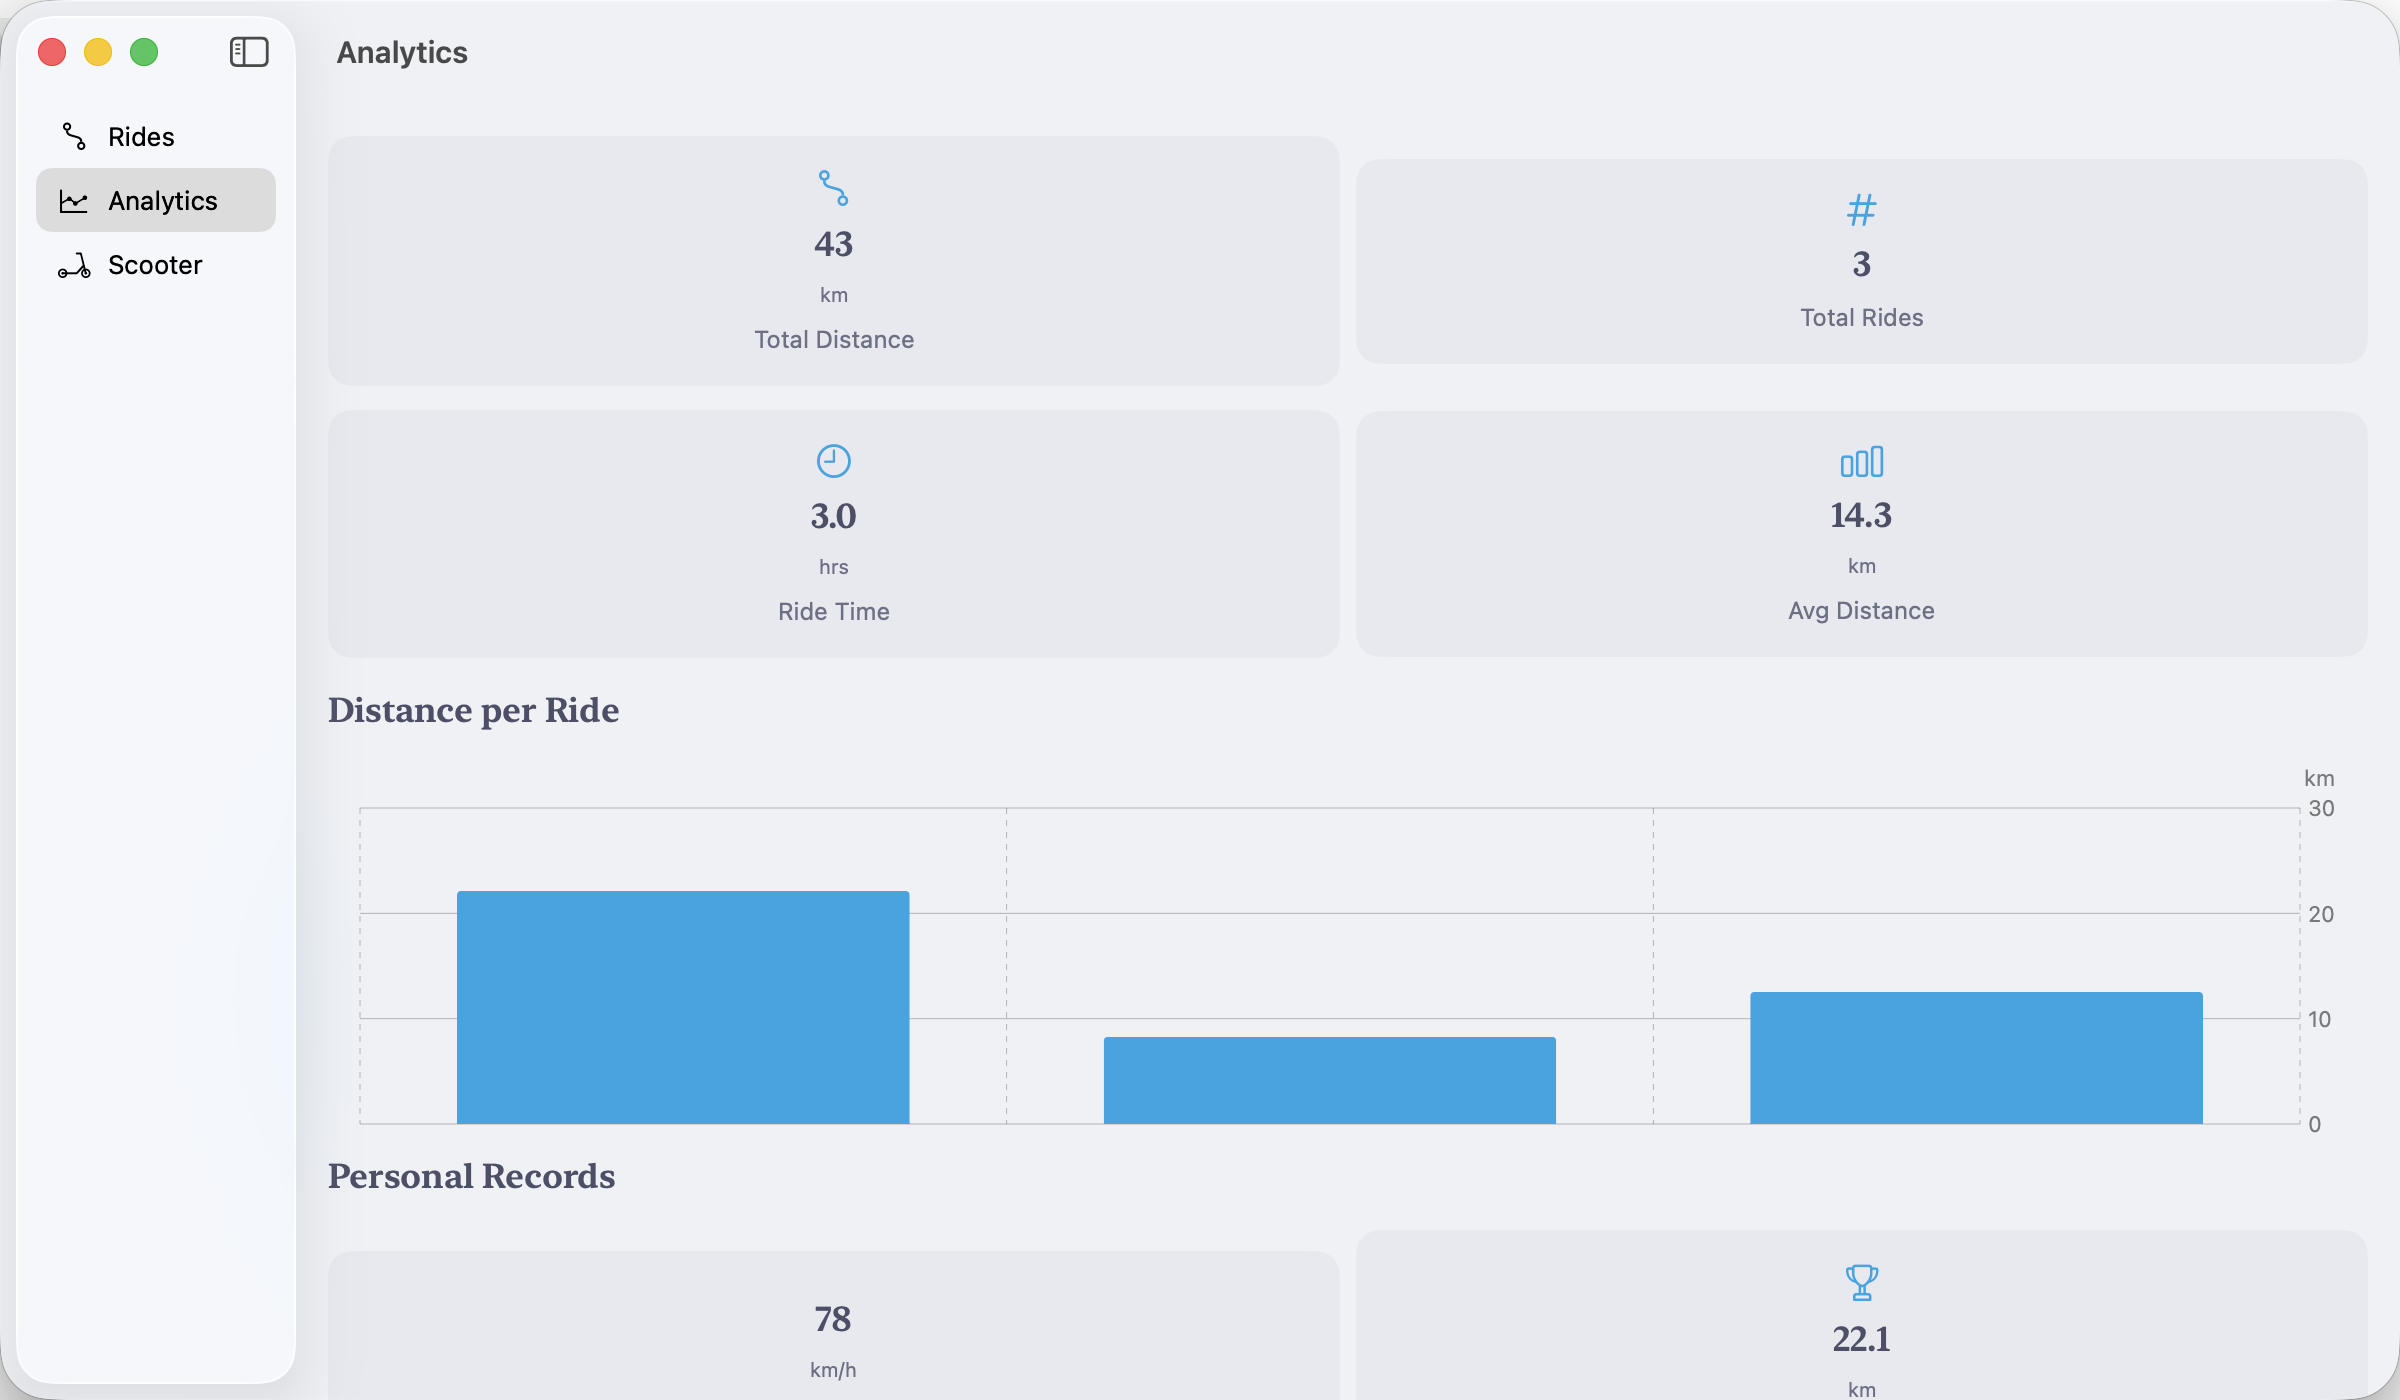
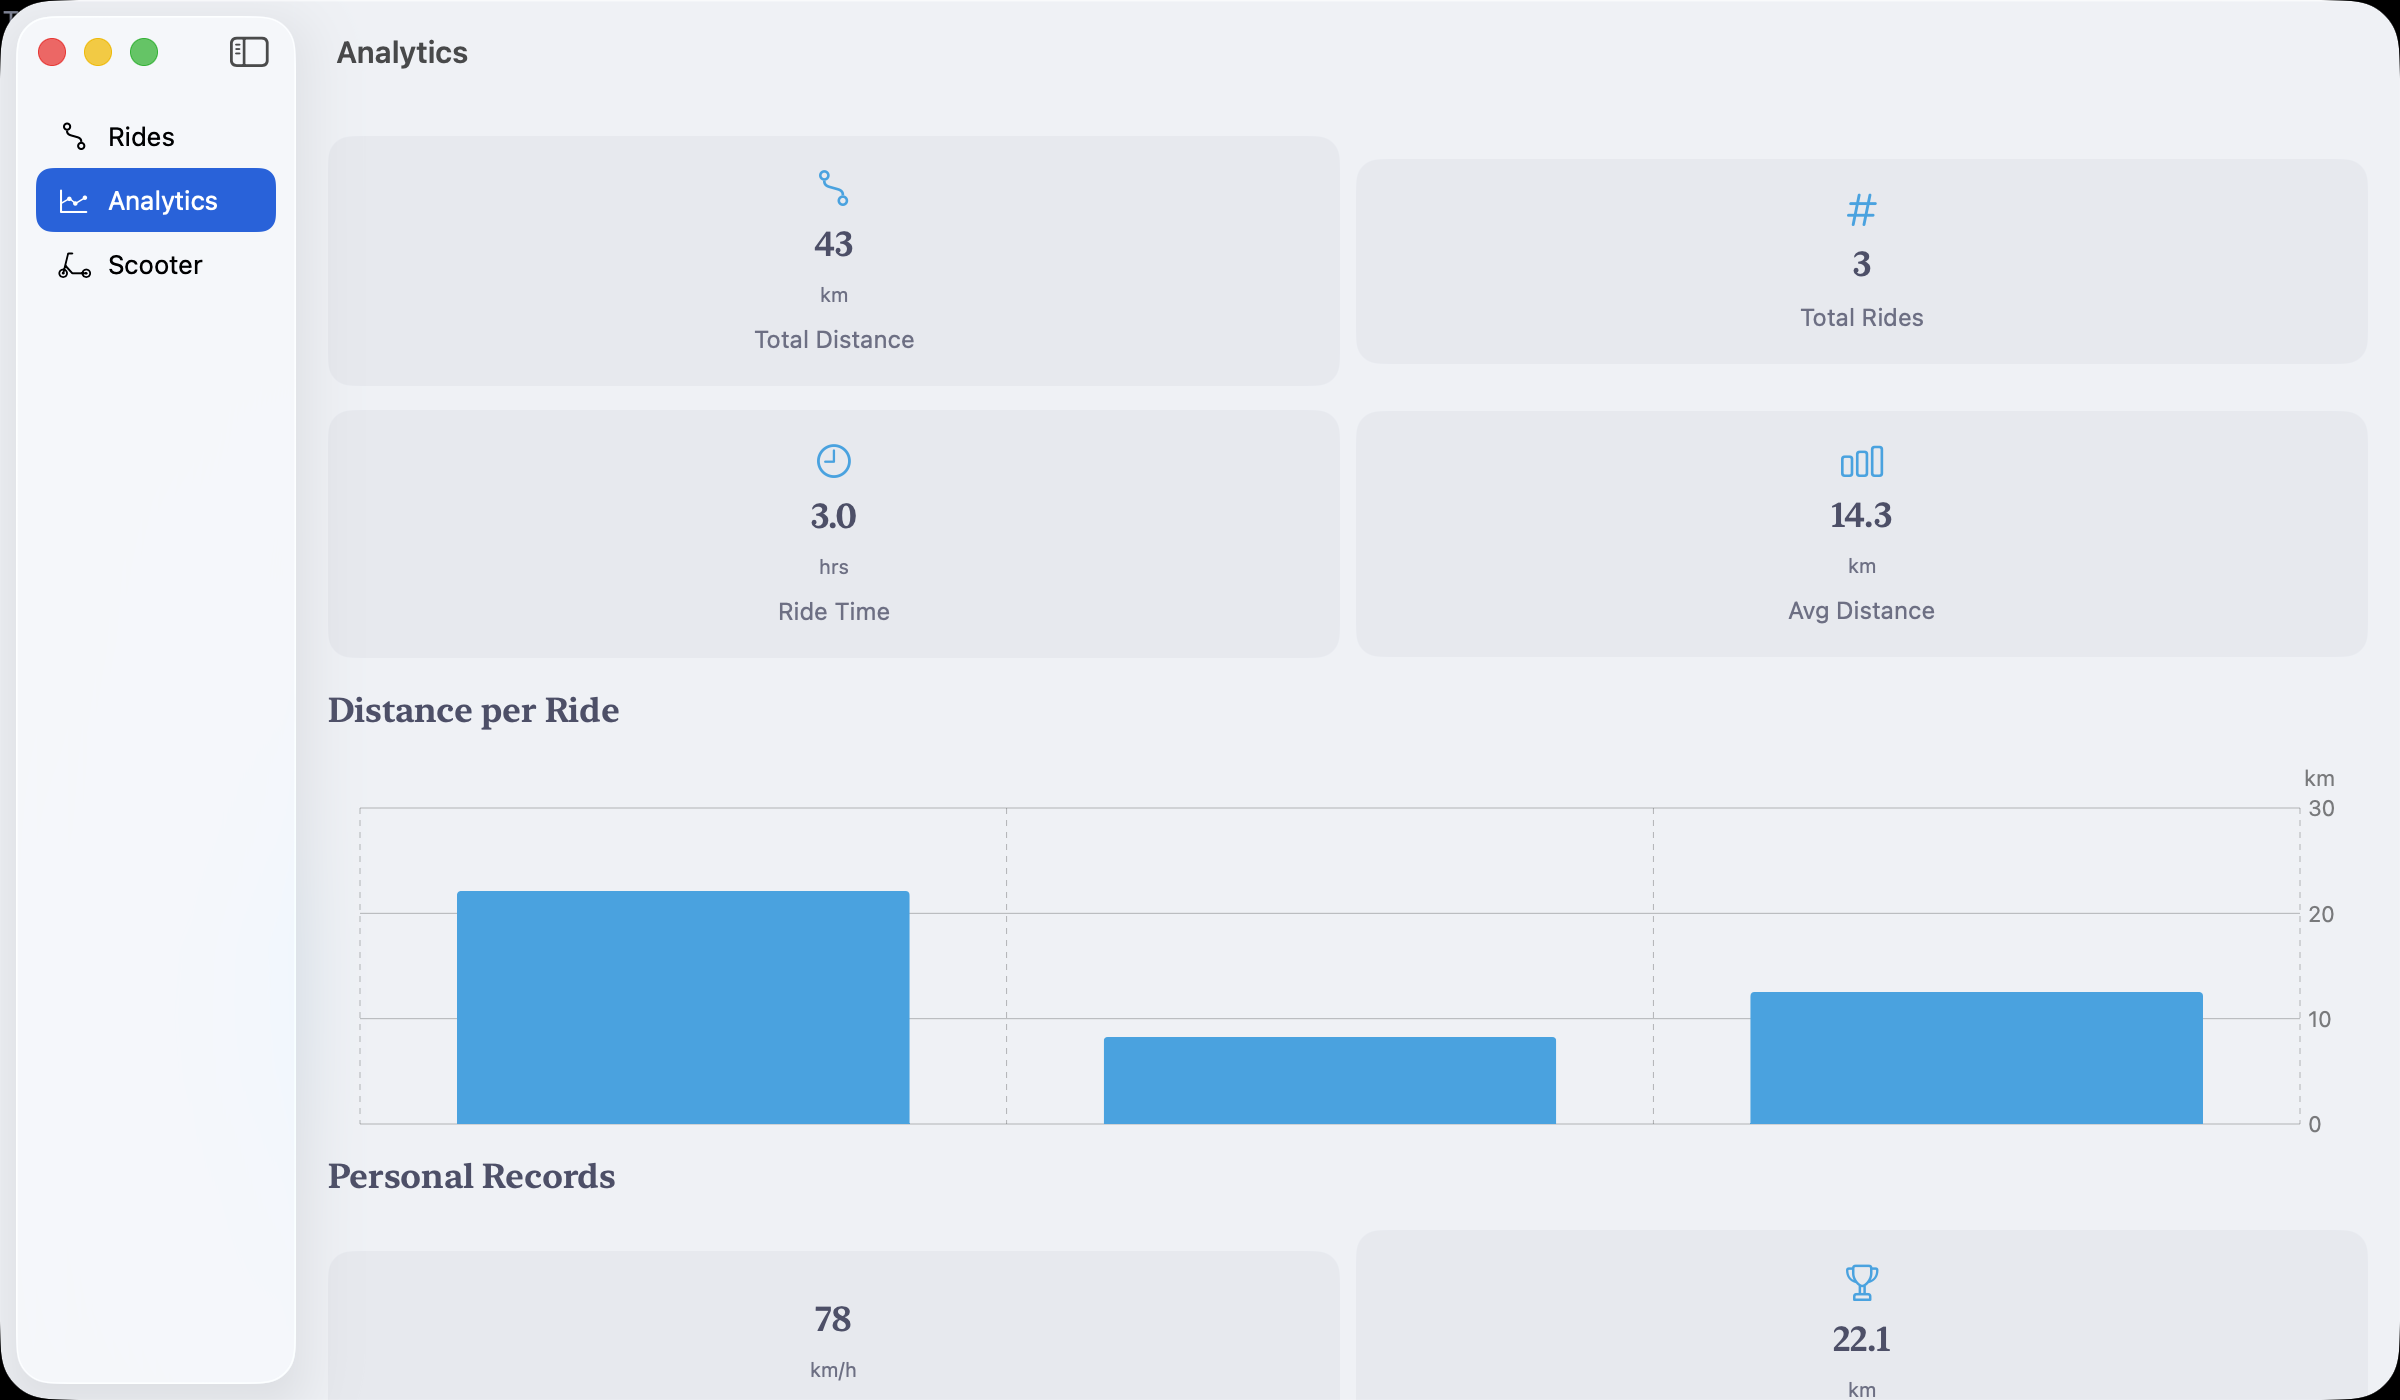
Add screenshot-tab support and recapture screenshots
Add --screenshot-tab launch argument to Mac and Vision content views
for programmatic sidebar navigation during screenshot capture.

Recaptured all Mac screenshots (5) and Vision Pro screenshots (5)
with proper tab navigation and flipped scooter icons.

diff --git a/GT3CompanionVision/VisionContentView.swift b/GT3CompanionVision/VisionContentView.swift
@@ -11,16 +11,29 @@ import SwiftUI
 struct VisionContentView: View {
     @Query(sort: \PersistedRide.startTime, order: .reverse) private var rides: [PersistedRide]
 
+    private enum SidebarItem: String, Hashable {
+        case rides, analytics, scooter
+    }
+
+    @State private var selectedItem: SidebarItem?
+    @State private var selectedRide: PersistedRide?
+
+    private var screenshotTab: String? {
+        guard let idx = ProcessInfo.processInfo.arguments.firstIndex(of: "--screenshot-tab"),
+              idx + 1 < ProcessInfo.processInfo.arguments.count else { return nil }
+        return ProcessInfo.processInfo.arguments[idx + 1]
+    }
+
     var body: some View {
         NavigationSplitView {
-            List {
-                NavigationLink(destination: VisionRideHistoryView(rides: rides)) {
+            List(selection: $selectedItem) {
+                NavigationLink(value: SidebarItem.rides) {
                     Label("Rides", systemImage: "point.topleft.down.to.point.bottomright.curvepath")
                 }
-                NavigationLink(destination: AggregateAnalyticsView()) {
+                NavigationLink(value: SidebarItem.analytics) {
                     Label("Analytics", systemImage: "chart.xyaxis.line")
                 }
-                NavigationLink(destination: ScooterInfoView()) {
+                NavigationLink(value: SidebarItem.scooter) {
                     Label {
                         Text("Scooter")
                     } icon: {
@@ -31,44 +44,71 @@ struct VisionContentView: View {
             }
             .navigationTitle("GT3 Companion")
         } detail: {
-            VStack(spacing: Theme.Spacing.large) {
-                Image(systemName: "scooter")
-                    .font(.system(size: 60))
-                    .foregroundStyle(Theme.Colors.accent)
-                    .environment(\.layoutDirection, .rightToLeft)
+            switch selectedItem {
+            case .rides:
+                if let ride = selectedRide {
+                    VisionRideDetailView(ride: ride)
+                } else {
+                    VisionRideHistoryView(rides: rides, selectedRide: $selectedRide)
+                }
+            case .analytics:
+                AggregateAnalyticsView()
+            case .scooter:
+                ScooterInfoView()
+            case nil:
+                VStack(spacing: Theme.Spacing.large) {
+                    Image(systemName: "scooter")
+                        .font(.system(size: 60))
+                        .foregroundStyle(Theme.Colors.accent)
+                        .environment(\.layoutDirection, .rightToLeft)
 
-                Text("GT3 Companion")
-                    .font(Theme.Fonts.headerXL())
-                    .foregroundStyle(Theme.Colors.textPrimary)
+                    Text("GT3 Companion")
+                        .font(Theme.Fonts.headerXL())
+                        .foregroundStyle(Theme.Colors.textPrimary)
 
-                Text("Explore your ride data in space")
-                    .font(Theme.Fonts.bodyMedium)
-                    .foregroundStyle(Theme.Colors.textSecondary)
+                    Text("Explore your ride data in space")
+                        .font(Theme.Fonts.bodyMedium)
+                        .foregroundStyle(Theme.Colors.textSecondary)
+                }
+                .frame(maxWidth: .infinity, maxHeight: .infinity)
             }
-            .frame(maxWidth: .infinity, maxHeight: .infinity)
+        }
+        .task {
+            if let tab = screenshotTab {
+                switch tab {
+                case "rides": selectedItem = .rides
+                case "analytics": selectedItem = .analytics
+                case "scooter": selectedItem = .scooter
+                case "ride-detail":
+                    selectedItem = .rides
+                    try? await Task.sleep(for: .milliseconds(500))
+                    selectedRide = rides.first
+                default: break
+                }
+            }
         }
     }
 }
 
 struct VisionRideHistoryView: View {
     let rides: [PersistedRide]
+    @Binding var selectedRide: PersistedRide?
 
     var body: some View {
-        List(rides) { ride in
-            NavigationLink(destination: VisionRideDetailView(ride: ride)) {
-                VStack(alignment: .leading, spacing: 4) {
-                    Text(ride.startTime, style: .date)
-                        .font(Theme.Fonts.bodyMedium)
-                    Text(String(
-                        format: "%.1f km · %@ · %.0f km/h max",
-                        ride.totalDistance,
-                        ride.formattedDuration,
-                        ride.maxSpeed
-                    ))
-                    .font(Theme.Fonts.bodySmall)
-                }
-                .padding(.vertical, 4)
+        List(rides, selection: $selectedRide) { ride in
+            VStack(alignment: .leading, spacing: 4) {
+                Text(ride.startTime, style: .date)
+                    .font(Theme.Fonts.bodyMedium)
+                Text(String(
+                    format: "%.1f km · %@ · %.0f km/h max",
+                    ride.totalDistance,
+                    ride.formattedDuration,
+                    ride.maxSpeed
+                ))
+                .font(Theme.Fonts.bodySmall)
             }
+            .padding(.vertical, 4)
+            .tag(ride)
         }
         .navigationTitle("Ride History")
         .overlay {

diff --git a/GT3CompanionMac/MacContentView.swift b/GT3CompanionMac/MacContentView.swift
@@ -11,16 +11,29 @@ import SwiftUI
 struct MacContentView: View {
     @Query(sort: \PersistedRide.startTime, order: .reverse) private var rides: [PersistedRide]
 
+    private enum SidebarItem: String, Hashable {
+        case rides, analytics, scooter
+    }
+
+    @State private var selectedItem: SidebarItem?
+    @State private var selectedRide: PersistedRide?
+
+    private var screenshotTab: String? {
+        guard let idx = ProcessInfo.processInfo.arguments.firstIndex(of: "--screenshot-tab"),
+              idx + 1 < ProcessInfo.processInfo.arguments.count else { return nil }
+        return ProcessInfo.processInfo.arguments[idx + 1]
+    }
+
     var body: some View {
         NavigationSplitView {
-            List {
-                NavigationLink(destination: MacRideHistoryView(rides: rides)) {
+            List(selection: $selectedItem) {
+                NavigationLink(value: SidebarItem.rides) {
                     Label("Rides", systemImage: "point.topleft.down.to.point.bottomright.curvepath")
                 }
-                NavigationLink(destination: AggregateAnalyticsView()) {
+                NavigationLink(value: SidebarItem.analytics) {
                     Label("Analytics", systemImage: "chart.xyaxis.line")
                 }
-                NavigationLink(destination: ScooterInfoView()) {
+                NavigationLink(value: SidebarItem.scooter) {
                     Label {
                         Text("Scooter")
                     } icon: {
@@ -31,33 +44,60 @@ struct MacContentView: View {
             }
             .navigationTitle("GT3 Companion")
         } detail: {
-            VStack(spacing: Theme.Spacing.large) {
-                Image(systemName: "scooter")
-                    .font(.system(size: 48))
-                    .foregroundStyle(Theme.Colors.accent)
-                    .environment(\.layoutDirection, .rightToLeft)
+            switch selectedItem {
+            case .rides:
+                if let ride = selectedRide {
+                    MacRideDetailView(ride: ride)
+                } else {
+                    MacRideListView(rides: rides, selectedRide: $selectedRide)
+                }
+            case .analytics:
+                AggregateAnalyticsView()
+            case .scooter:
+                ScooterInfoView()
+            case nil:
+                VStack(spacing: Theme.Spacing.large) {
+                    Image(systemName: "scooter")
+                        .font(.system(size: 48))
+                        .foregroundStyle(Theme.Colors.accent)
+                        .environment(\.layoutDirection, .rightToLeft)
 
-                Text("GT3 Companion")
-                    .font(Theme.Fonts.headerXL())
-                    .foregroundStyle(Theme.Colors.textPrimary)
+                    Text("GT3 Companion")
+                        .font(Theme.Fonts.headerXL())
+                        .foregroundStyle(Theme.Colors.textPrimary)
 
-                Text("Select a section to explore your ride data")
-                    .font(Theme.Fonts.bodyMedium)
-                    .foregroundStyle(Theme.Colors.textSecondary)
+                    Text("Select a section to explore your ride data")
+                        .font(Theme.Fonts.bodyMedium)
+                        .foregroundStyle(Theme.Colors.textSecondary)
+                }
+                .frame(maxWidth: .infinity, maxHeight: .infinity)
             }
-            .frame(maxWidth: .infinity, maxHeight: .infinity)
+        }
+        .task {
+            if let tab = screenshotTab {
+                switch tab {
+                case "rides": selectedItem = .rides
+                case "analytics": selectedItem = .analytics
+                case "scooter": selectedItem = .scooter
+                case "ride-detail":
+                    selectedItem = .rides
+                    try? await Task.sleep(for: .milliseconds(500))
+                    selectedRide = rides.first
+                default: break
+                }
+            }
         }
     }
 }
 
-struct MacRideHistoryView: View {
+struct MacRideListView: View {
     let rides: [PersistedRide]
+    @Binding var selectedRide: PersistedRide?
 
     var body: some View {
-        List(rides) { ride in
-            NavigationLink(destination: MacRideDetailView(ride: ride)) {
-                MacRideRowView(ride: ride)
-            }
+        List(rides, selection: $selectedRide) { ride in
+            MacRideRowView(ride: ride)
+                .tag(ride)
         }
         .navigationTitle("Ride History")
         .overlay {
